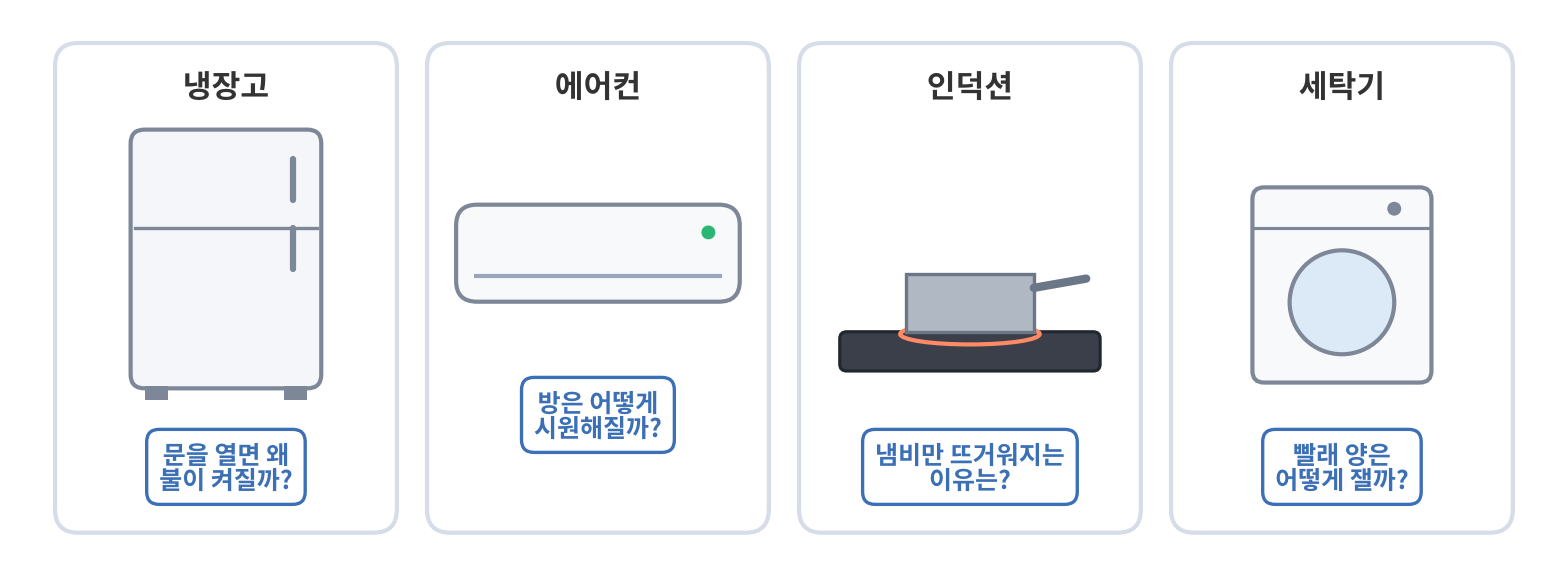
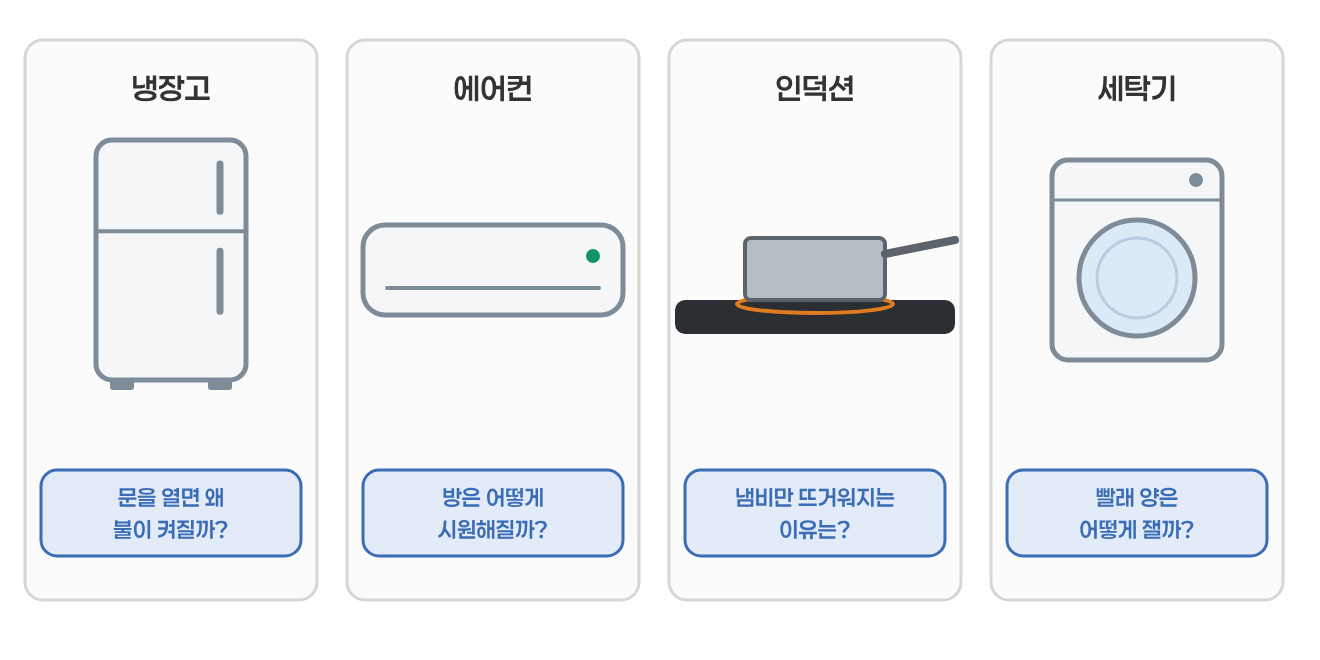
HA-100: 블로그 그림 새 그림체로 다시 그림, 세 단계 표·4컷(냉장고 전등) 추가, 시리즈 보는 방법에 요약 → 4컷 → 깊이 반영(팀장님 2026-11-24 15:07)
Claude-Session: https://claude.ai/code/session_01DR6nsVNAeEXLhn9YQGXxtx

Changed region(s): [[0.0311, 0.0312, 0.9939, 0.9375]]

diff --git a/생활 기기 100 생활 기기 들여다보기/index.md b/생활 기기 100 생활 기기 들여다보기/index.md
@@ -33,20 +33,22 @@ summary: "무심코 쓰는 전자기기 안에는 생각보다 많은 센서와 
 
 복잡해 보이는 기계도 하는 일을 나눠 보면 세 단계예요.
 
-1. 알아채기: 센서가 온도, 빛, 무게, 사람 같은 바깥 변화를 알아채요.
-2. 판단하기: 기계 안의 작은 컴퓨터(MCU)가 센서 값을 보고 "이제 무엇을 할지" 정해요.
-3. 움직이기: 모터, 히터, 전등 같은 액추에이터가 실제로 일을 해요.
+| 단계 | 하는 일 | 맡는 부품 |
+| --- | --- | --- |
+| 단계 1. 알아채기 | 온도, 빛, 무게, 사람 같은 바깥 변화를 알아채요 | 센서 |
+| 단계 2. 판단하기 | 센서 값을 보고 "이제 무엇을 할지" 정해요 | 기계 안의 작은 컴퓨터(MCU) |
+| 단계 3. 움직이기 | 실제로 일을 해요 | 모터, 히터, 전등 같은 액추에이터 |
 
-예를 들어 냉장고 문을 열면 이렇게 돼요.
+### 2-1. 냉장고 문을 열면
 
-<details>
-<summary>세 단계로 나눠 보기</summary>
+![네 컷으로 보는 냉장고 전등: 문 열기, 스위치, 판단, 전등](hc_comic.png)
 
-1. 알아채기: 문 쪽 스위치가 "문이 열렸다"는 걸 알아채요.
-2. 판단하기: "문이 열렸으니 불을 켜자"고 정해요.
-3. 움직이기: 안쪽 전등이 켜져요.
+냉장고 문을 열면 세 단계가 차례로 일어나요.
 
-</details>
+1. 냉장고 문을 열어요.
+2. 문 쪽 스위치가 "문이 열렸다"는 걸 알아채요(단계 1).
+3. 작은 컴퓨터가 "문이 열렸으니 불을 켜자"고 정해요(단계 2).
+4. 안쪽 전등이 켜져요(단계 3).
 
 센서와 액추에이터가 무엇인지는 [전자 부품 지도: 센서·액추에이터와 회로를 받치는 부품](<../전자 부품 110 전자 부품 지도/index.md>)에서 자세히 다뤘어요.
 
@@ -60,7 +62,7 @@ summary: "무심코 쓰는 전자기기 안에는 생각보다 많은 센서와 
 
 - 기기가 하는 일을 동작별로 나눠요. 예를 들어 냉장고는 "차갑게 하기", "문 열면 불 켜기", "성에 녹이기"처럼요.
 - 동작마다 어떤 센서가 알아채고 어떤 액추에이터가 움직이는지 기기 그림 위에 이름표로 띄워요.
-- 그 동작 뒤에 있는 과학 원리를 생활 속 예시로 먼저 보고 그다음 기기 안에서 어떻게 쓰이는지 봐요.
+- 그 동작 뒤에 있는 과학 원리는 생활 속 예시로 먼저 감을 잡아요. 그다음 원리 두세 가지를 표와 그림 한 장으로 먼저 정리하고, 기기가 움직이는 순서를 네 컷 그림으로 본 뒤, 원리를 하나씩 자세히 봐요.
 
 > ⚠ 기기를 직접 뜯지는 않아요.
 >
@@ -82,7 +84,7 @@ summary: "무심코 쓰는 전자기기 안에는 생각보다 많은 센서와 
 
 <!-- /시리즈 목차 -->
 
-앞으로는 인덕션, 전자레인지, 세탁기 같은 기기를 다룰 계획이에요.
+앞으로는 전자레인지, 세탁기 같은 기기를 다룰 계획이에요.
 
 순서는 바뀔 수 있어요.
 
